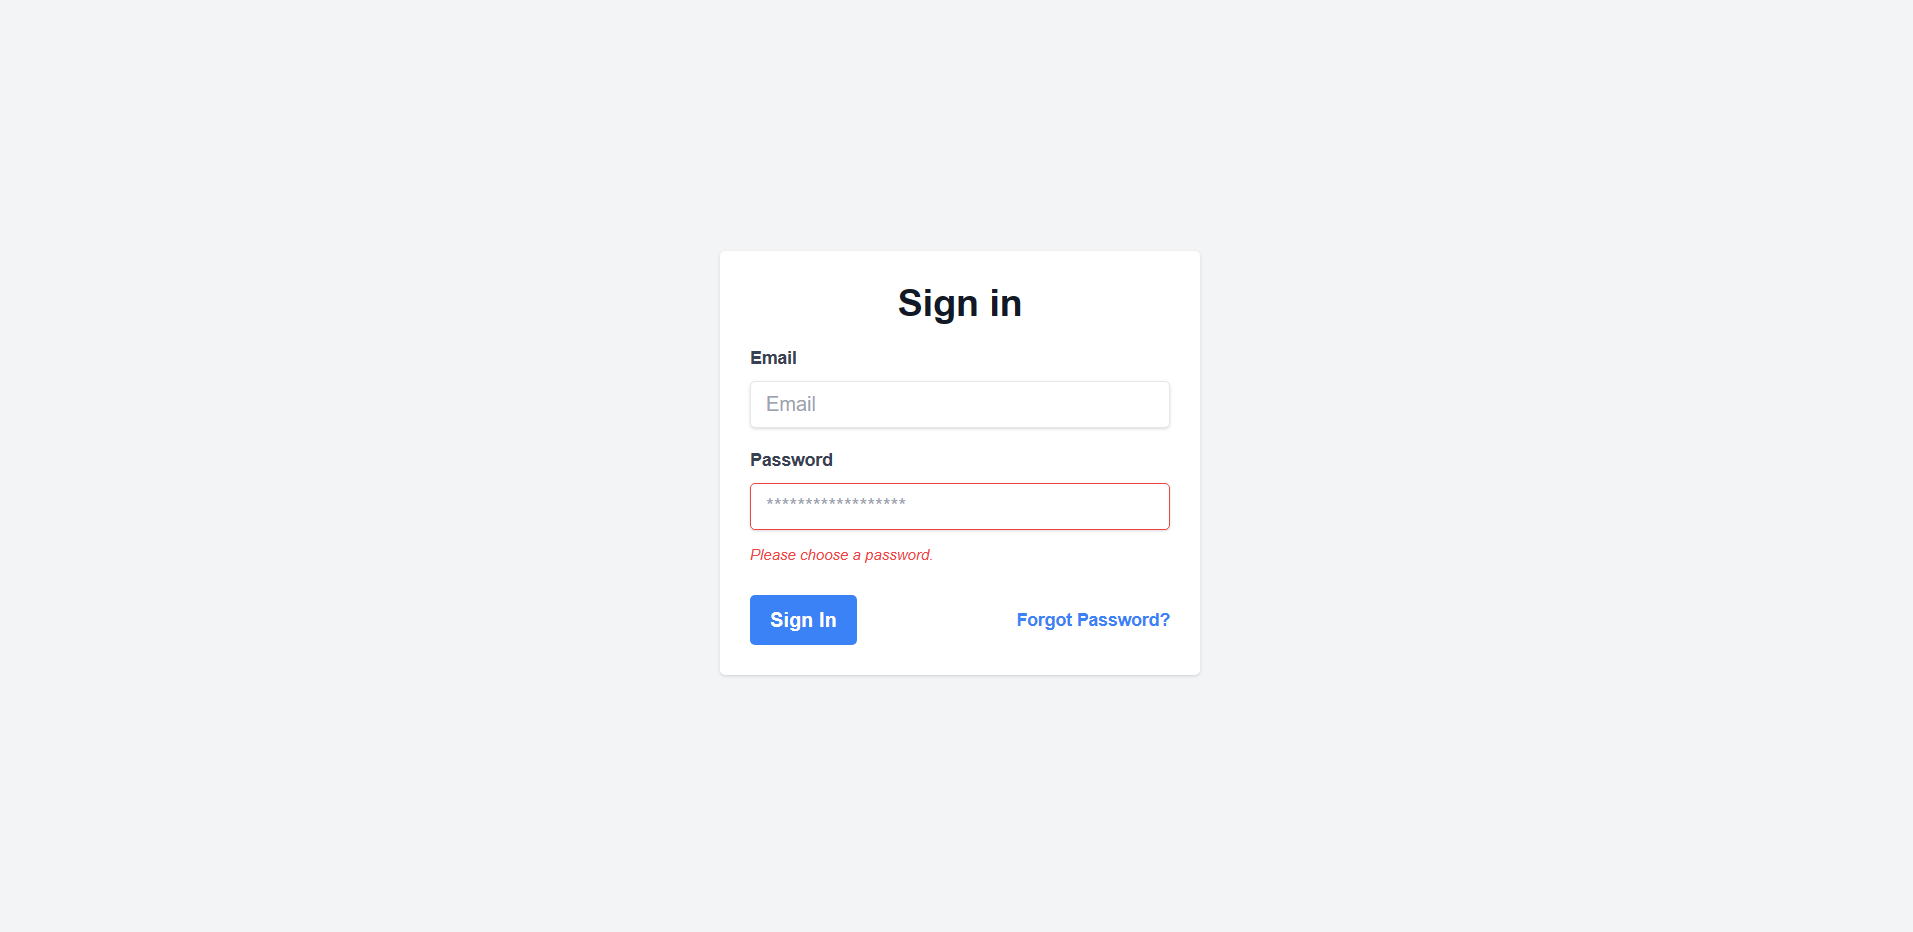
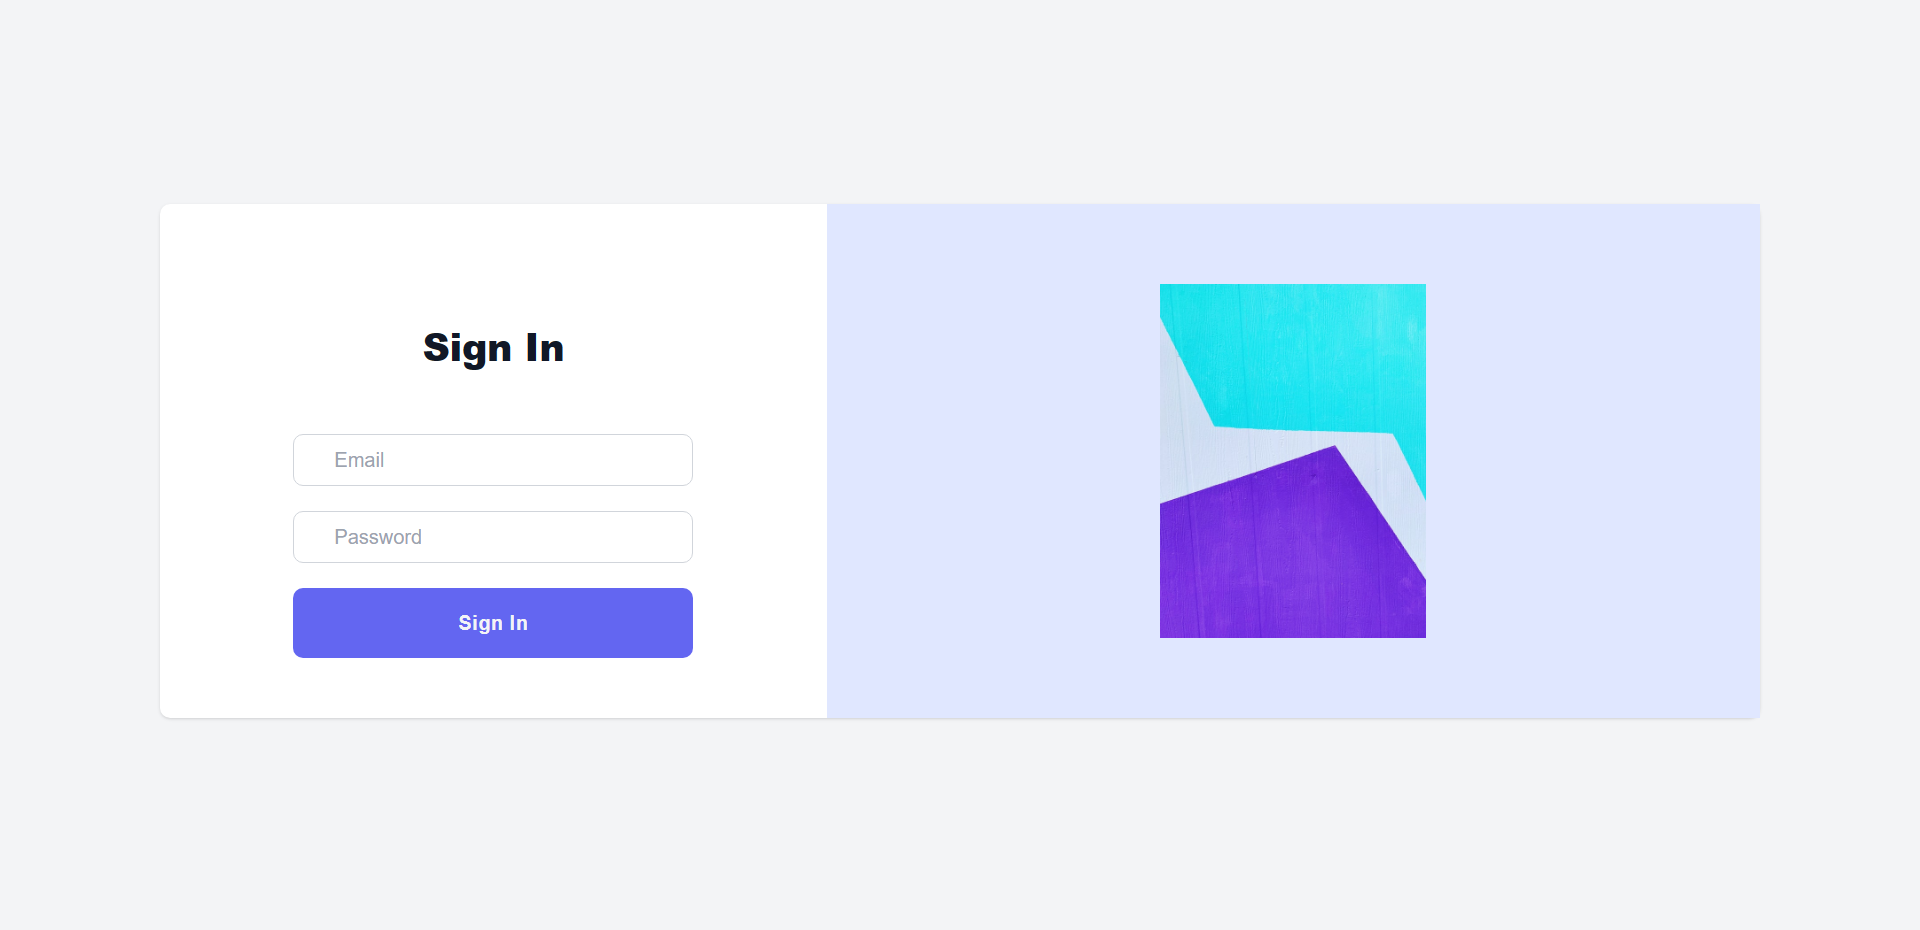
login image change

Changed region(s): [[0.1542, 0.2495, 0.7402, 0.7484], [0.2159, 0.343, 0.3084, 0.4054], [0.185, 0.5613, 0.2159, 0.5925]]

diff --git a/src/pages/LandingPage.jsx b/src/pages/LandingPage.jsx
@@ -1,0 +1,53 @@
+import React from 'react'
+
+export default function LandingPage() {
+  return (
+      <div>
+          {/* navbar */}
+          <div className='flex justify-between items-center px-4 py-3'>
+              <div className='flex items-center'>
+                  <div className='flex items-center'>
+                      <img src='/assets/react.svg' alt='logo' className='h-8 w-8' />
+                      <span className='text-gray-700 font-semibold text-lg'>NFT</span>
+                  </div>
+                  <div className='flex items-center ml-6'>
+                      <a href='#' className='text-gray-600 px-3 py-2 rounded-md text-sm font-medium'>Home</a>
+                      <a href='#' className='text-gray-600 px-3 py-2 rounded-md text-sm font-medium'>About</a>
+                      <a href='#' className='text-gray-600 px-3 py-2 rounded-md text-sm font-medium'>Contact</a>
+                  </div>
+
+              </div>
+              <div className='flex items-center'>
+                  <a href='#' className='text-gray-600 px-3 py-2 rounded-md text-sm font-medium'>Login</a>
+                  <a href='#' className='text-gray-600 px-3 py-2 rounded-md text-sm font-medium'>Sign Up</a>
+              </div>
+          </div>
+
+          {/* hero */}
+          <div className='flex justify-center items-center h-screen '
+              style={{ backgroundImage: "url('https://www.')", backgroundSize: 'cover' }}
+          >
+              <div className='flex flex-col items-center'>
+                  <h1 className='text-4xl font-bold'>NFT Marketplace</h1>
+                  <p className='text-lg text-gray-600'>Lorem ipsum dolor sit amet consectetur adipisicing elit. Quisquam, quae.</p>
+                  <div className='flex mt-4'>
+                      <a href='#' className='bg-indigo-500 text-white px-4 py-2 rounded-md text-sm font-medium'>Get Started</a>
+                      <a href='#' className='bg-gray-200 text-gray-600 px-4 py-2 rounded-md text-sm font-medium ml-4'>Learn More</a>
+                  </div>
+                  
+              </div>
+          </div>
+
+          {/* footer */}
+          <div className='flex justify-center items-center h-24 bg-gray-100'>
+              <div className='flex items-center'>
+                  <span className='text-gray-700 font-semibold text-lg'>NFT</span>
+                  <span className='text-gray-600 ml-4'>© 2021 NFT. All rights reserved</span>
+              </div>
+          </div>
+          
+          
+          
+    </div>
+  )
+}

diff --git a/src/App.jsx b/src/App.jsx
@@ -21,6 +21,7 @@ import FourCards from "./pages/FourCards";
 import Clock from './components/UIProjects/clock/index'
 import Alram from "./pages/Alram";
 import Login from "./pages/Login";
+import LandingPage from "./pages/LandingPage";
 export default function App() {
   return (
     <>
@@ -47,7 +48,8 @@ export default function App() {
             <Route path="four-card-feature" element={<FourCards />} />
             <Route path="clock" element={<Clock />} />
             <Route path='alarm' element={<Alram />} />
-            <Route path='login' element={<Login />} />
+            <Route path='login' element={<Login />} />  
+            <Route path='landing-page' element={<LandingPage />} />
             <Route path="*" element={<div>404</div>} />
           </Routes>
         </BrowserRouter>

diff --git a/src/pages/Login.jsx b/src/pages/Login.jsx
@@ -30,7 +30,8 @@ export default function Login() {
                   </div>
               </div>
               <div className='flex-1 bg-indigo-100 text-center hidden lg:flex'>
-                  <div className='m-12 xl:m-16 w-full bg-contain bg-center bg-no-repeat' style={{ backgroundImage: "url('https://source.unsplash.com/IXUM4cJynP0/600x800')" }}>
+                  <div className='m-12 xl:m-16 w-full bg-contain bg-center bg-no-repeat'
+                      style={{ backgroundImage: "url('https://source.unsplash.com/IXUM4cJynP0/600x800')" }}>
                   </div></div>
           </div>
     </div>
